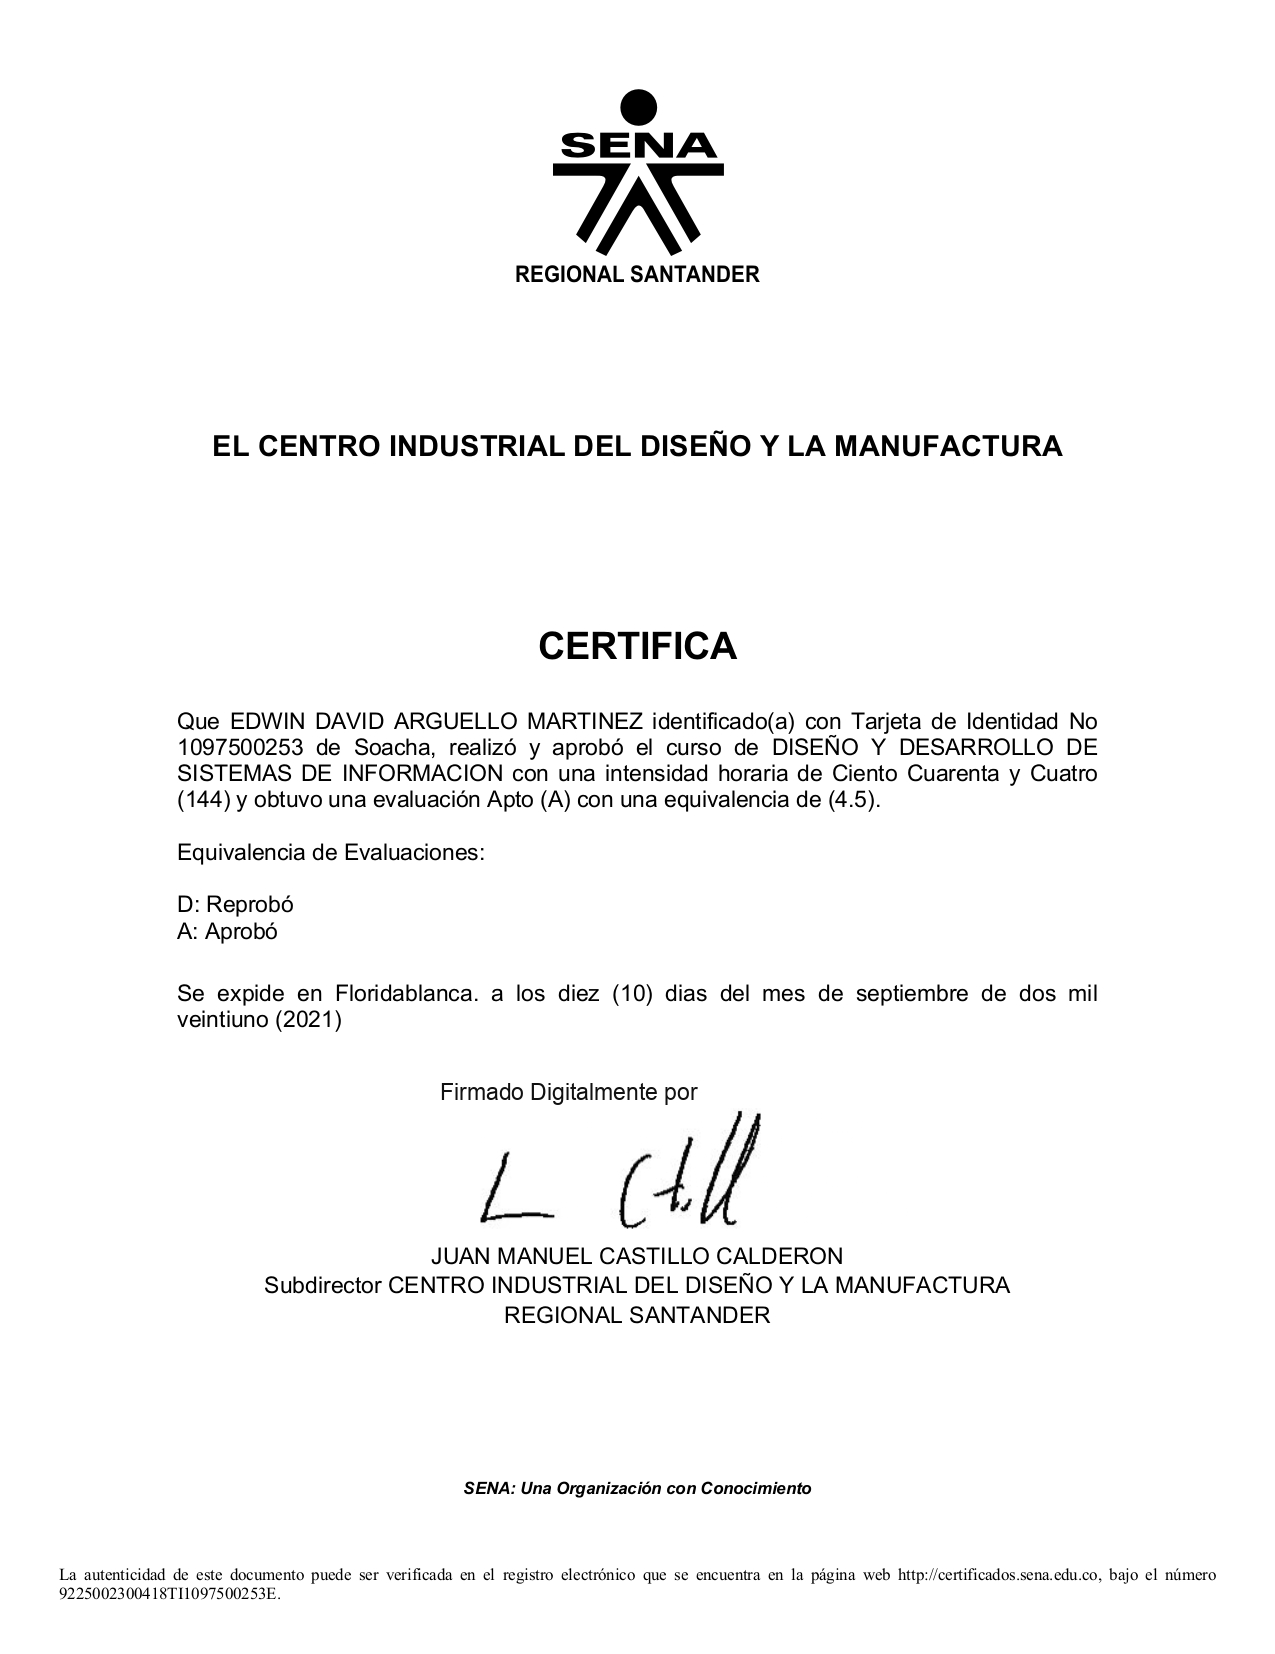
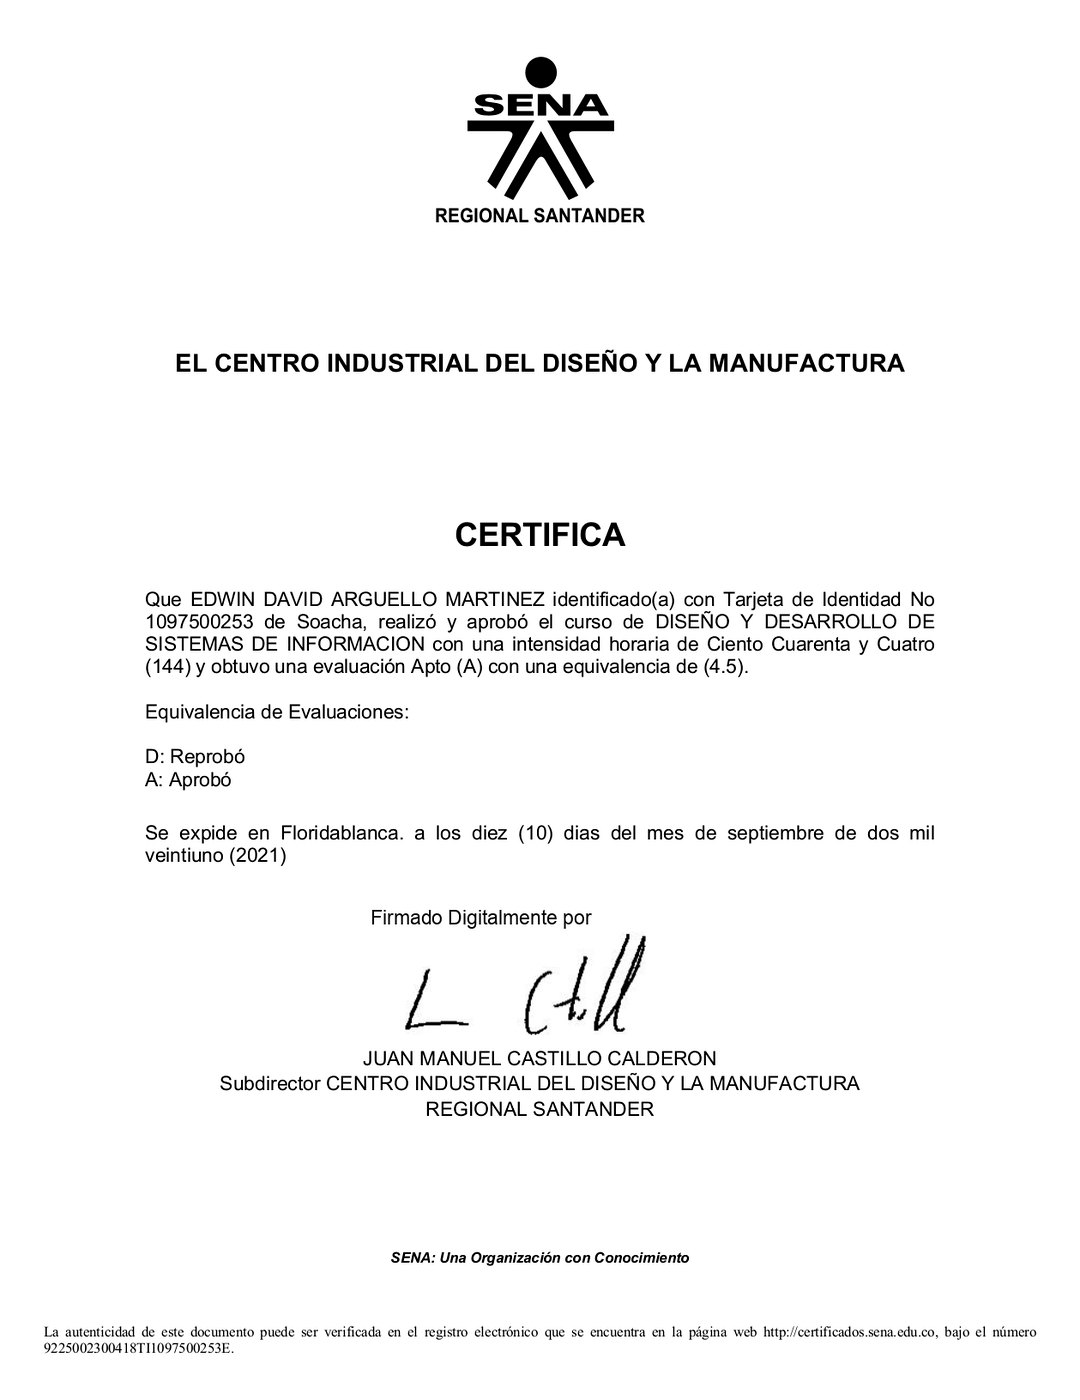
Optimizar imagenes de titulos y certificados, agregar miniaturas y corregir visor Lightbox

diff --git a/index.html b/index.html
@@ -8,7 +8,7 @@
   <link rel="preconnect" href="https://fonts.googleapis.com" />
   <link rel="preconnect" href="https://fonts.gstatic.com" crossorigin />
   <link href="https://fonts.googleapis.com/css2?family=JetBrains+Mono:wght@500;600&family=Plus+Jakarta+Sans:wght@400;500;600;700&family=Space+Grotesk:wght@600;700&display=swap" rel="stylesheet" />
-  <link rel="stylesheet" href="./styles.css" />
+  <link rel="stylesheet" href="./styles.css?v=3" />
 </head>
 <body>
   <!-- NAVBAR -->
@@ -549,32 +549,47 @@
           <h3 style="font-family:'Space Grotesk',sans-serif;margin-bottom:14px;font-size:1.15rem;">Estudios Formales y Títulos</h3>
           <div class="timeline">
             <div class="timeline-card">
-              <div class="timeline-date">Abr 2025 – Jul 2027 · En formación activa</div>
-              <h3>Tecnólogo en Análisis y Desarrollo de Software (ADSO)</h3>
-              <div class="inst">SENA — Centro Industrial del Diseño y la Manufactura</div>
-              <div class="meta">Floridablanca, Santander · Modalidad Presencial · Ficha 3169034</div>
-              <div style="margin-top:10px">
-                <button type="button" class="btn btn-secondary btn-sm" data-lightbox="./assets/certificados/constancia_tecnologo_adso_sena.jpg" data-caption="Constancia Oficial de Estudios — Tecnólogo en Análisis y Desarrollo de Software (SENA CIDM)">Ver Constancia</button>
+              <div class="timeline-card-row">
+                <div>
+                  <div class="timeline-date">Abr 2025 – Jul 2027 · En formación activa</div>
+                  <h3>Tecnólogo en Análisis y Desarrollo de Software (ADSO)</h3>
+                  <div class="inst">SENA — Centro Industrial del Diseño y la Manufactura</div>
+                  <div class="meta">Floridablanca, Santander · Modalidad Presencial · Ficha 3169034</div>
+                  <div style="margin-top:10px">
+                    <button type="button" class="btn btn-secondary btn-sm" data-lightbox="./assets/certificados/constancia_tecnologo_adso_sena.jpg?v=3" data-caption="Constancia Oficial de Estudios — Tecnólogo en Análisis y Desarrollo de Software (SENA CIDM)">Ver Constancia</button>
+                  </div>
+                </div>
+                <img class="doc-thumb" src="./assets/certificados/constancia_tecnologo_adso_sena.jpg?v=3" alt="Constancia ADSO SENA" data-lightbox="./assets/certificados/constancia_tecnologo_adso_sena.jpg?v=3" data-caption="Constancia Oficial de Estudios — Tecnólogo en Análisis y Desarrollo de Software (SENA CIDM)" />
               </div>
             </div>
 
             <div class="timeline-card">
-              <div class="timeline-date">12 Noviembre 2024 · Titulado</div>
-              <h3>Título: Técnico en Programación de Software</h3>
-              <div class="inst">SENA — Centro Industrial de Mantenimiento Integral</div>
-              <div class="meta">Girón, Santander · Registro N.° 89917211</div>
-              <div style="margin-top:10px">
-                <button type="button" class="btn btn-secondary btn-sm" data-lightbox="./assets/certificados/titulo_tecnico_programacion_software_sena.jpg" data-caption="Título Oficial SENA — Técnico en Programación de Software (Noviembre 2024)">Ver Título</button>
+              <div class="timeline-card-row">
+                <div>
+                  <div class="timeline-date">12 Noviembre 2024 · Titulado</div>
+                  <h3>Título: Técnico en Programación de Software</h3>
+                  <div class="inst">SENA — Centro Industrial de Mantenimiento Integral</div>
+                  <div class="meta">Girón, Santander · Registro N.° 89917211</div>
+                  <div style="margin-top:10px">
+                    <button type="button" class="btn btn-secondary btn-sm" data-lightbox="./assets/certificados/titulo_tecnico_programacion_software_sena.jpg?v=3" data-caption="Título Oficial SENA — Técnico en Programación de Software (Noviembre 2024)">Ver Título</button>
+                  </div>
+                </div>
+                <img class="doc-thumb" src="./assets/certificados/titulo_tecnico_programacion_software_sena.jpg?v=3" alt="Título Técnico SENA" data-lightbox="./assets/certificados/titulo_tecnico_programacion_software_sena.jpg?v=3" data-caption="Título Oficial SENA — Técnico en Programación de Software (Noviembre 2024)" />
               </div>
             </div>
 
             <div class="timeline-card">
-              <div class="timeline-date">2024 · Graduado</div>
-              <h3>Título: Bachiller Académico</h3>
-              <div class="inst">Institución Educativa Colegio Facundo Navas Mantilla</div>
-              <div class="meta">Girón, Santander</div>
-              <div style="margin-top:10px">
-                <button type="button" class="btn btn-secondary btn-sm" data-lightbox="./assets/certificados/certificado_educacion_basica_colegio.jpg" data-caption="Certificado Institucional — Colegio Facundo Navas Mantilla (Girón, Santander)">Ver Soporte</button>
+              <div class="timeline-card-row">
+                <div>
+                  <div class="timeline-date">2024 · Graduado</div>
+                  <h3>Título: Bachiller Académico</h3>
+                  <div class="inst">Institución Educativa Colegio Facundo Navas Mantilla</div>
+                  <div class="meta">Girón, Santander</div>
+                  <div style="margin-top:10px">
+                    <button type="button" class="btn btn-secondary btn-sm" data-lightbox="./assets/certificados/certificado_educacion_basica_colegio.jpg?v=3" data-caption="Certificado Institucional — Colegio Facundo Navas Mantilla (Girón, Santander)">Ver Soporte</button>
+                  </div>
+                </div>
+                <img class="doc-thumb" src="./assets/certificados/certificado_educacion_basica_colegio.jpg?v=3" alt="Certificado Colegio Facundo Navas Mantilla" data-lightbox="./assets/certificados/certificado_educacion_basica_colegio.jpg?v=3" data-caption="Certificado Institucional — Colegio Facundo Navas Mantilla (Girón, Santander)" />
               </div>
             </div>
           </div>
@@ -583,42 +598,57 @@
         <div>
           <h3 style="font-family:'Space Grotesk',sans-serif;margin-bottom:14px;font-size:1.15rem;">Certificaciones Verificadas</h3>
           <div class="certs-list">
-            <div class="cert-card" style="cursor:pointer" data-lightbox="./assets/certificados/certificado_microsoft_excel_2019.jpg" data-caption="Certificación Internacional Microsoft Office Specialist: Excel 2019 Associate (Código 77zK-uSRY)">
-              <div>
-                <strong>Microsoft Office Specialist: Excel 2019 Associate</strong>
-                <span>Microsoft · Certificación Internacional · Clic para ver certificado</span>
+            <div class="cert-card" style="cursor:pointer" data-lightbox="./assets/certificados/certificado_microsoft_excel_2019.jpg?v=3" data-caption="Certificación Internacional Microsoft Office Specialist: Excel 2019 Associate (Código 77zK-uSRY)">
+              <div class="cert-card-left">
+                <img class="cert-thumb" src="./assets/certificados/certificado_microsoft_excel_2019.jpg?v=3" alt="Certificado Microsoft Excel" />
+                <div>
+                  <strong>Microsoft Office Specialist: Excel 2019 Associate</strong>
+                  <span>Microsoft · Certificación Internacional · Clic para ver</span>
+                </div>
               </div>
               <span class="cert-year">Nov 2023</span>
             </div>
 
-            <div class="cert-card" style="cursor:pointer" data-lightbox="./assets/certificados/certificado_english_does_work_1_sena.jpg" data-caption="Certificado SENA — English Does Work Level 1 (48 horas · Octubre 2023)">
-              <div>
-                <strong>English Does Work — Level 1</strong>
-                <span>SENA · 48 horas · Clic para ver certificado</span>
+            <div class="cert-card" style="cursor:pointer" data-lightbox="./assets/certificados/certificado_english_does_work_1_sena.jpg?v=3" data-caption="Certificado SENA — English Does Work Level 1 (48 horas · Octubre 2023)">
+              <div class="cert-card-left">
+                <img class="cert-thumb" src="./assets/certificados/certificado_english_does_work_1_sena.jpg?v=3" alt="Certificado Inglés SENA" />
+                <div>
+                  <strong>English Does Work — Level 1</strong>
+                  <span>SENA · 48 horas · Clic para ver</span>
+                </div>
               </div>
               <span class="cert-year">Oct 2023</span>
             </div>
 
-            <div class="cert-card" style="cursor:pointer" data-lightbox="./assets/certificados/certificado_sistemas_informacion_sena.jpg" data-caption="Certificado SENA — Diseño y Desarrollo de Sistemas de Información (144 horas)">
-              <div>
-                <strong>Diseño y Desarrollo de Sistemas de Información</strong>
-                <span>SENA · 144 horas · Clic para ver certificado</span>
+            <div class="cert-card" style="cursor:pointer" data-lightbox="./assets/certificados/certificado_sistemas_informacion_sena.jpg?v=3" data-caption="Certificado SENA — Diseño y Desarrollo de Sistemas de Información (144 horas)">
+              <div class="cert-card-left">
+                <img class="cert-thumb" src="./assets/certificados/certificado_sistemas_informacion_sena.jpg?v=3" alt="Certificado Sistemas de Información SENA" />
+                <div>
+                  <strong>Diseño y Desarrollo de Sistemas de Información</strong>
+                  <span>SENA · 144 horas · Clic para ver</span>
+                </div>
               </div>
               <span class="cert-year">Sep 2021</span>
             </div>
 
-            <div class="cert-card" style="cursor:pointer" data-lightbox="./assets/certificados/certificado_electronica_robotica_sena.jpg" data-caption="Certificado SENA — Aplicación de la Electrónica y Robótica en Proyectos de CTI (144 horas)">
-              <div>
-                <strong>Electrónica y Robótica en Proyectos de CTI</strong>
-                <span>SENA · 144 horas · Clic para ver certificado</span>
+            <div class="cert-card" style="cursor:pointer" data-lightbox="./assets/certificados/certificado_electronica_robotica_sena.jpg?v=3" data-caption="Certificado SENA — Aplicación de la Electrónica y Robótica en Proyectos de CTI (144 horas)">
+              <div class="cert-card-left">
+                <img class="cert-thumb" src="./assets/certificados/certificado_electronica_robotica_sena.jpg?v=3" alt="Certificado Electrónica y Robótica SENA" />
+                <div>
+                  <strong>Electrónica y Robótica en Proyectos de CTI</strong>
+                  <span>SENA · 144 horas · Clic para ver</span>
+                </div>
               </div>
               <span class="cert-year">Dic 2021</span>
             </div>
 
-            <div class="cert-card" style="cursor:pointer" data-lightbox="./assets/certificados/certificado_procesos_biotecnologicos_sena.jpg" data-caption="Certificado SENA — Aplicaciones y Desarrollo de Procesos Biotecnológicos (144 horas)">
-              <div>
-                <strong>Aplicaciones y Desarrollo de Procesos Biotecnológicos</strong>
-                <span>SENA · 144 horas · Clic para ver certificado</span>
+            <div class="cert-card" style="cursor:pointer" data-lightbox="./assets/certificados/certificado_procesos_biotecnologicos_sena.jpg?v=3" data-caption="Certificado SENA — Aplicaciones y Desarrollo de Procesos Biotecnológicos (144 horas)">
+              <div class="cert-card-left">
+                <img class="cert-thumb" src="./assets/certificados/certificado_procesos_biotecnologicos_sena.jpg?v=3" alt="Certificado Biotecnología SENA" />
+                <div>
+                  <strong>Aplicaciones y Desarrollo de Procesos Biotecnológicos</strong>
+                  <span>SENA · 144 horas · Clic para ver</span>
+                </div>
               </div>
               <span class="cert-year">Ago 2022</span>
             </div>
@@ -695,7 +725,8 @@
     <div class="lightbox-inner">
       <button id="lightboxClose" class="lightbox-close" aria-label="Cerrar">&times;</button>
       <button id="lightboxPrev" class="lightbox-nav lightbox-prev" aria-label="Anterior">&#8249;</button>
-      <img id="lightboxImg" src="" alt="Vista ampliada" />
+      <div id="lightboxLoader" class="lightbox-loader">Cargando documento...</div>
+      <img id="lightboxImg" alt="Documento ampliado" />
       <button id="lightboxNext" class="lightbox-nav lightbox-next" aria-label="Siguiente">&#8250;</button>
       <p id="lightboxCaption" class="lightbox-caption"></p>
     </div>
@@ -704,6 +735,6 @@
   <!-- TOAST -->
   <div id="toast" class="toast" role="status" aria-live="polite">Correo copiado al portapapeles</div>
 
-  <script src="./script.js"></script>
+  <script src="./script.js?v=3"></script>
 </body>
 </html>

diff --git a/script.js b/script.js
@@ -63,28 +63,62 @@
     });
   });
 
-  // 4. Lightbox Gallery
+  // 4. Lightbox Gallery (deduplicated + resilient loader)
   const lightbox = document.getElementById('lightbox');
   const lightboxImg = document.getElementById('lightboxImg');
+  const lightboxLoader = document.getElementById('lightboxLoader');
   const lightboxCaption = document.getElementById('lightboxCaption');
   const lightboxClose = document.getElementById('lightboxClose');
   const lightboxPrev = document.getElementById('lightboxPrev');
   const lightboxNext = document.getElementById('lightboxNext');
 
-  const galleryItems = Array.from(document.querySelectorAll('[data-lightbox]')).map((el) => ({
-    src: el.dataset.lightbox,
-    caption: el.dataset.caption || ''
-  }));
+  const seenSrcs = new Set();
+  const galleryItems = [];
+  document.querySelectorAll('[data-lightbox]').forEach((el) => {
+    const src = el.dataset.lightbox;
+    if (src && !seenSrcs.has(src)) {
+      seenSrcs.add(src);
+      galleryItems.push({
+        src,
+        caption: el.dataset.caption || ''
+      });
+    }
+  });
 
   let currentIndex = 0;
 
+  function loadIntoLightbox(src, caption) {
+    lightboxCaption.textContent = caption;
+    lightboxImg.classList.add('is-loading');
+    lightboxLoader?.classList.add('active');
+
+    let retried = false;
+    lightboxImg.onload = () => {
+      lightboxLoader?.classList.remove('active');
+      lightboxImg.classList.remove('is-loading');
+    };
+    lightboxImg.onerror = () => {
+      if (!retried) {
+        retried = true;
+        const sep = src.includes('?') ? '&' : '?';
+        lightboxImg.src = src + sep + 't=' + Date.now();
+      } else {
+        lightboxLoader.textContent = 'No se pudo cargar la imagen. Recarga la página e intenta de nuevo.';
+      }
+    };
+
+    // Reset first so Chromium always re-triggers load even if previously interrupted
+    lightboxImg.removeAttribute('src');
+    lightboxImg.src = src;
+  }
+
   function openLightbox(src, caption) {
+    if (lightboxLoader) lightboxLoader.textContent = 'Cargando documento...';
     const found = galleryItems.findIndex((item) => item.src === src);
     currentIndex = found >= 0 ? found : 0;
-    lightboxImg.src = src;
-    lightboxCaption.textContent = caption;
     lightbox.classList.add('open');
     document.body.style.overflow = 'hidden';
+    loadIntoLightbox(src, caption);
   }
 
   function closeLightbox() {
@@ -95,8 +129,7 @@
   function stepLightbox(delta) {
     if (!galleryItems.length) return;
     currentIndex = (currentIndex + delta + galleryItems.length) % galleryItems.length;
-    lightboxImg.src = galleryItems[currentIndex].src;
-    lightboxCaption.textContent = galleryItems[currentIndex].caption;
+    loadIntoLightbox(galleryItems[currentIndex].src, galleryItems[currentIndex].caption);
   }
 
   document.querySelectorAll('[data-lightbox]').forEach((el) => {

diff --git a/styles.css b/styles.css
@@ -944,6 +944,32 @@ img {
   margin-top: 4px;
 }
 
+.timeline-card-row {
+  display: flex;
+  align-items: flex-start;
+  justify-content: space-between;
+  gap: 16px;
+}
+
+.doc-thumb {
+  width: 66px;
+  height: 86px;
+  border-radius: 8px;
+  object-fit: cover;
+  object-position: top center;
+  border: 1px solid var(--border);
+  background: #ffffff;
+  flex-shrink: 0;
+  cursor: zoom-in;
+  transition: transform 0.2s ease, border-color 0.2s ease;
+}
+
+.doc-thumb:hover,
+.cert-card:hover .cert-thumb {
+  transform: scale(1.05);
+  border-color: var(--accent);
+}
+
 .certs-list {
   display: flex;
   flex-direction: column;
@@ -954,11 +980,35 @@ img {
   background: var(--bg-card);
   border: 1px solid var(--border);
   border-radius: var(--radius-sm);
-  padding: 15px 18px;
+  padding: 13px 16px;
   display: flex;
   justify-content: space-between;
   align-items: center;
   gap: 14px;
+  transition: transform 0.2s ease, border-color 0.2s ease;
+}
+
+.cert-card:hover {
+  transform: translateY(-2px);
+  border-color: var(--accent);
+}
+
+.cert-card-left {
+  display: flex;
+  align-items: center;
+  gap: 13px;
+}
+
+.cert-thumb {
+  width: 54px;
+  height: 44px;
+  border-radius: 6px;
+  object-fit: cover;
+  object-position: top center;
+  border: 1px solid var(--border);
+  background: #ffffff;
+  flex-shrink: 0;
+  transition: transform 0.2s ease, border-color 0.2s ease;
 }
 
 .cert-card strong {
@@ -1069,11 +1119,32 @@ img {
 }
 
 .lightbox-inner img {
-  max-height: 78vh;
+  max-height: 80vh;
+  max-width: min(88vw, 960px);
+  width: auto;
+  height: auto;
+  object-fit: contain;
   margin: 0 auto;
   border-radius: 12px;
-  border: 1px solid rgba(255, 255, 255, 0.16);
-  box-shadow: 0 24px 60px rgba(0, 0, 0, 0.6);
+  background: #ffffff;
+  border: 1px solid rgba(255, 255, 255, 0.22);
+  box-shadow: 0 24px 60px rgba(0, 0, 0, 0.65);
+}
+
+.lightbox-inner img.is-loading {
+  display: none;
+}
+
+.lightbox-loader {
+  display: none;
+  margin: 40px auto;
+  color: #cbd5e1;
+  font-family: 'JetBrains Mono', monospace;
+  font-size: 0.9rem;
+}
+
+.lightbox-loader.active {
+  display: block;
 }
 
 .lightbox-caption {
